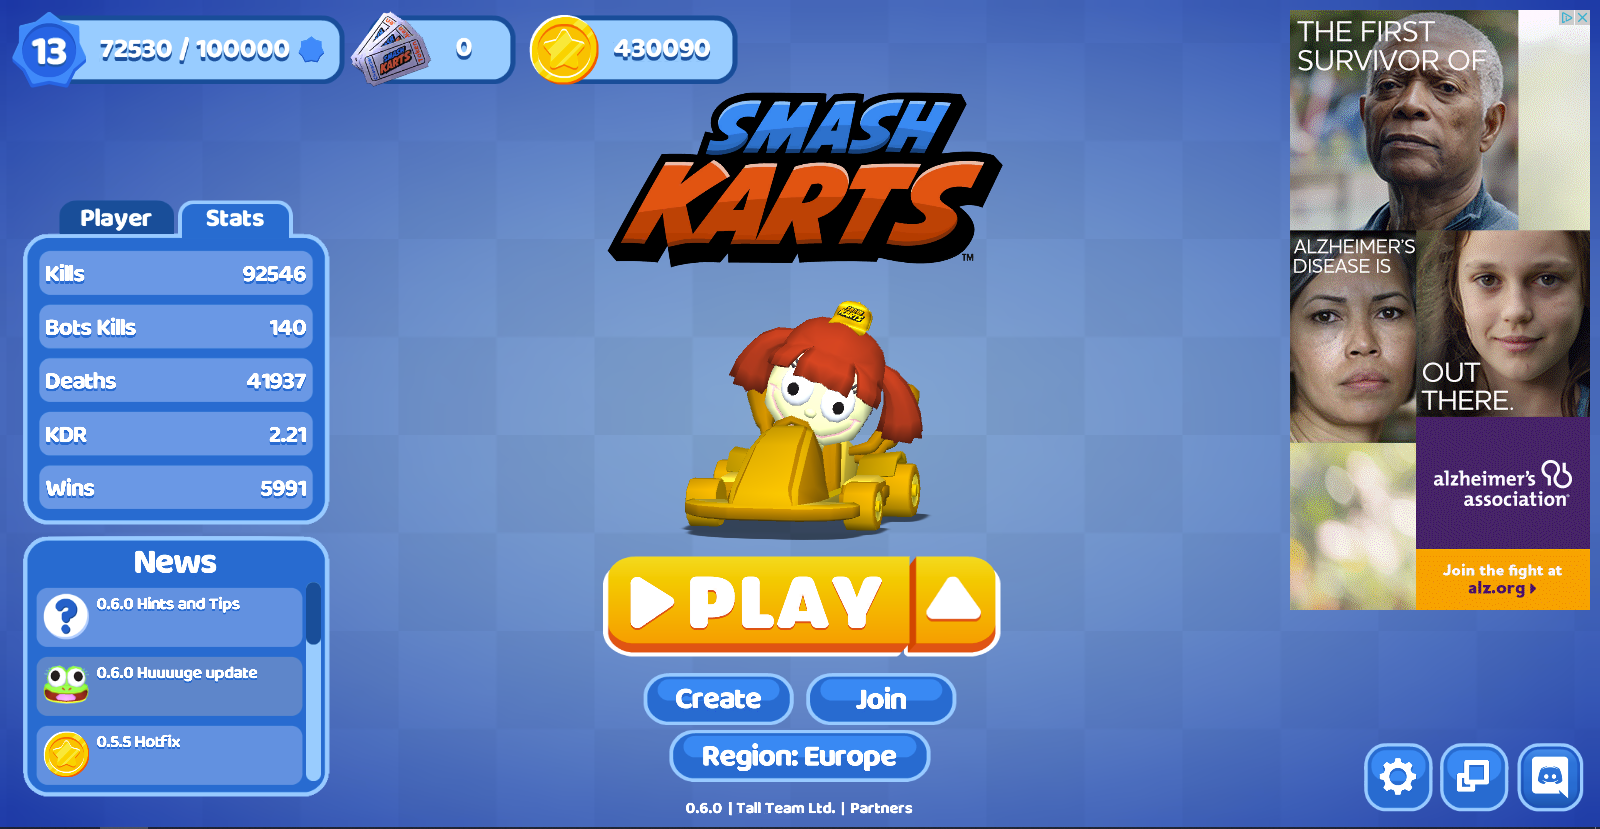
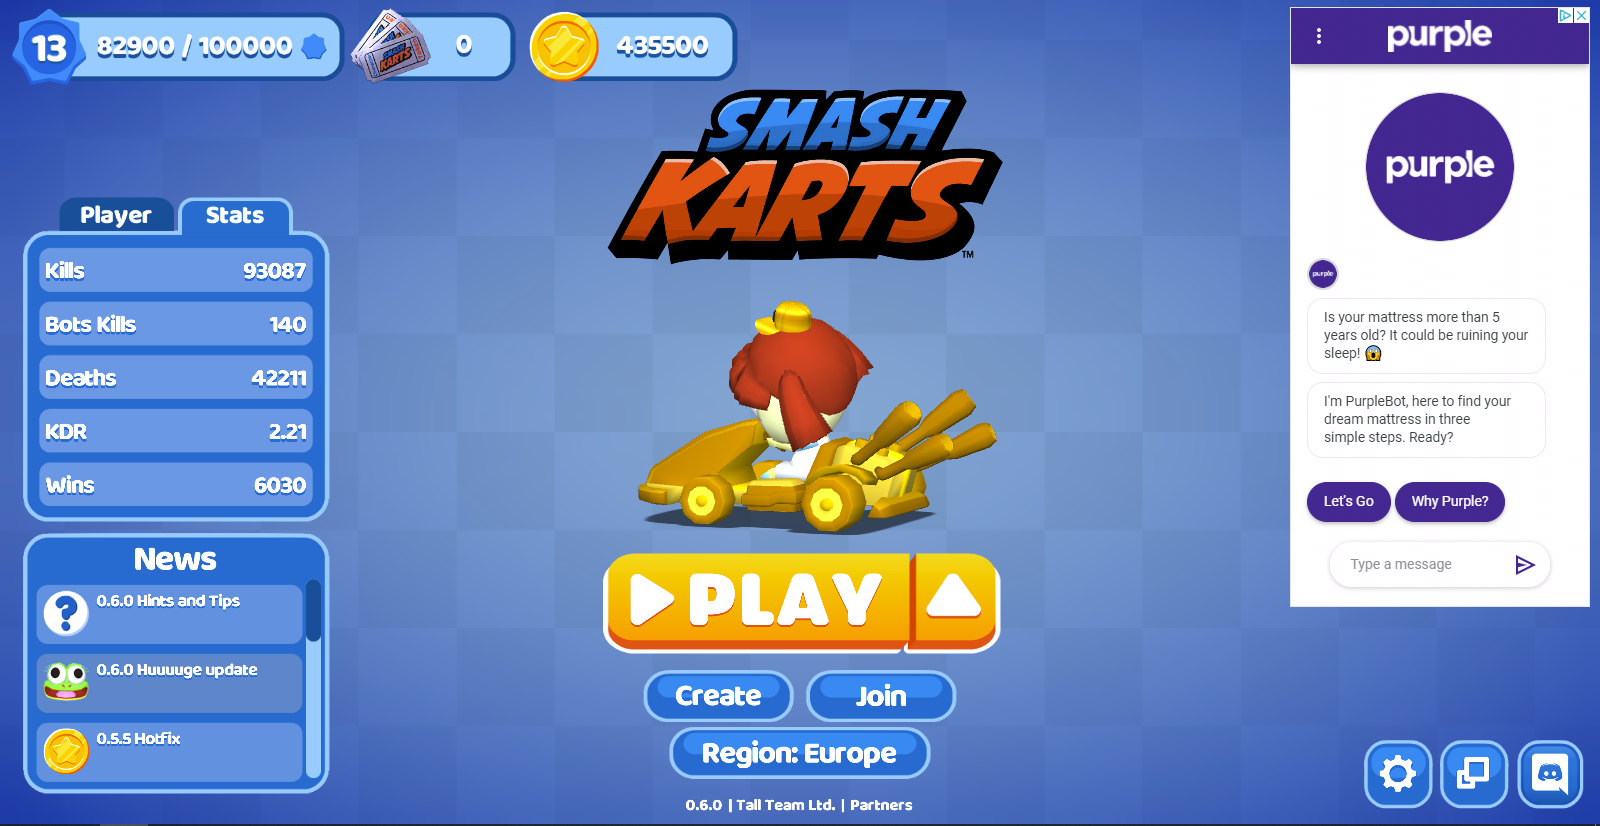
Added cbc, Corpse, David, miguelpro, OscarTsai, ruthvik, xzjkdjkn, Zekkersito. Updated alpha zero, AytruxThs, DIOSITOXDYT, Drew, haedcase, JackCrew22, MaxioCool, SumiBee

diff --git a/playerList.js b/playerList.js
@@ -62,6 +62,15 @@ let player = [
      '2.25',
      14,
      '5/20/2021'],
+    ['alpha zero.png',
+     'alpha zero',
+     307,
+     4454,
+     113,
+     2659,
+     '1.68',
+     11,
+     '5/22/2021'],
     ['ANCIENT.png',
      'ANCIENT',
      530,
@@ -99,14 +108,14 @@ let player = [
      11,
      '5/18/2021'],
     ['AytruxThs.jpg',
-     'AytruxThs' + newPlayer,
-     5,
-     124,
-     0,
-     100,
-     '1.24',
+     'AytruxThs',
+     11,
+     195,
+     2,
+     158,
+     '1.23',
      6,
-     '5/21/2021'],
+     '5/22/2021'],
     ['BAMerica.png',
      'BAM\'erica',
      278,
@@ -161,6 +170,15 @@ let player = [
      '1.15',
      '',
      '5/21/2021'],
+    ['cbc.png',
+     'cbc' + newPlayer,
+     208,
+     3028,
+     195,
+     1735,
+     '1.75',
+     4,
+     '5/22/2021'],
     ['Cepo.png',
      'Cepo',
      53,
@@ -206,6 +224,24 @@ let player = [
      '1.83',
      8,
      '5/18/2021'],
+    ['Corpse.png',
+     'Corpse' + newPlayer,
+     162,
+     2715,
+     134,
+     2337,
+     '1.16',
+     12,
+     '5/22/2021'],
+    ['David.png',
+     'David' + newPlayer,
+     894,
+     12306,
+     241,
+     5436,
+     '2.26',
+     10,
+     '5/22/2021'],
     ['DevilGamer.png',
      'DevilGamer',
      119,
@@ -215,24 +251,24 @@ let player = [
      '1.35',
      11,
      '5/20/2021'],
-    ['DIOSITO.png',
-     'DIOSITO',
-     38,
-     2147,
+    ['DIOSITOXDYT.png',
+     'DIOSITOXDYT',
+     42,
+     2223,
      35,
-     3390,
-     '0.63',
-     '',
-     '5/17/2021'],
+     3443,
+     '0.65',
+     6,
+     '5/22/2021'],
     ['Drew.png',
      'Drew',
-     732,
-     12549,
+     737,
+     12629,
      455,
-     7968,
+     8036,
      '1.57',
      10,
-     '5/21/2021'],
+     '5/22/2021'],
     ['Eli.png',
      'Eli',
      83,
@@ -252,7 +288,7 @@ let player = [
      7,
      '5/21/2021'],
     ['FastNFurious.png',
-     'FastNFurious' + newPlayer,
+     'FastNFurious',
      55,
      983,
      60,
@@ -306,7 +342,7 @@ let player = [
      7,
      '5/21/2021'],
     ['GGE.png',
-     'GGE' + newPlayer,
+     'GGE',
      189,
      2333,
      297,
@@ -351,7 +387,7 @@ let player = [
      '',
      ''],
     ['Gu1ziu.png',
-     'Gu1ziu' + newPlayer,
+     'Gu1ziu',
      55,
      678,
      0,
@@ -361,13 +397,13 @@ let player = [
      '5/21/2021'],
     ['haedcase.png',
      'haedcase',
-     5991,
-     92546,
+     6030,
+     93087,
      140,
-     41937,
+     42211,
      '2.21',
      13,
-     '5/20/2021'],
+     '5/22/2021'],
     ['Hello.png',
      'Hello',
      48,
@@ -388,13 +424,13 @@ let player = [
      ''],
     ['JackCrew22.jpg',
      'JackCrew22',
+     12,
+     121,
      7,
-     68,
-     2,
-     43,
-     '1.58',
-     5,
-     '5/18/2021'],
+     75,
+     '1.61',
+     6,
+     '5/22/2021'],
     ['Jash.png',
      'Jash',
      1582,
@@ -540,7 +576,7 @@ let player = [
      '',
      ''],
     ['mangoboi.png',
-     'mangoboi' + newPlayer,
+     'mangoboi',
      17,
      268,
      238,
@@ -566,15 +602,6 @@ let player = [
      '1.19',
      13,
      '5/17/2021'],
-    ['Maxio_cool.png',
-     'Maxio_cool',
-     22,
-     690,
-     79,
-     810,
-     '0.85',
-     9,
-     '5/18/2021'],
     ['Memes.png',
      'Memes',
      30,
@@ -611,6 +638,15 @@ let player = [
      '1.06',
      '',
      ''],
+    ['miguelpro.png',
+     'miguelpro' + newPlayer,
+     0,
+     88,
+     0,
+     66,
+     '1.33',
+     1,
+     '5/22/2021'],
     ['MrSam.png',
      'MrSam',
      1352,
@@ -701,6 +737,15 @@ let player = [
      '1.02',
      '',
      '5/14/2021'],
+    ['OscarTsai.png',
+     'OscarTsai' + newPlayer,
+     477,
+     9452,
+     586,
+     4587,
+     '2.06',
+     7,
+     '5/22/2021'],
     ['Outrun.png',
      'Outrun',
      1728,
@@ -765,7 +810,7 @@ let player = [
      3,
      '5/18/2021'],
     ['PrimOverLorde.png',
-     'PrimOverLorde' + newPlayer,
+     'PrimOverLorde',
      8,
      315,
      403,
@@ -792,7 +837,7 @@ let player = [
      13,
      '5/16/2021'],
     ['Pro Smasher.png',
-     'Pro Smasher' + newPlayer,
+     'Pro Smasher',
      450,
      6313,
      275,
@@ -854,6 +899,15 @@ let player = [
      '1.89',
      15,
      '5/18/2021'],
+    ['ruthvik.png',
+     'ruthvik' + newPlayer,
+     41,
+     656,
+     63,
+     503,
+     '1.30',
+     8,
+     '5/22/2021'],
     ['ruzgar.png',
      'ruzgar',
      157,
@@ -900,7 +954,7 @@ let player = [
      '',
      ''],
     ['SirBotsalot.png',
-     'SirBotsalot' + newPlayer,
+     'SirBotsalot',
      445,
      5569,
      147,
@@ -1000,13 +1054,13 @@ let player = [
      ''],
     ['SumiBee.png',
      'SumiBee',
-     209,
-     2595,
-     197,
-     1354,
+     237,
+     2930,
+     205,
+     1524,
      '1.92',
      '',
-     '5/19/2021'],
+     '5/22/2021'],
     ['Supremo.png',
      'Supremo',
      451,
@@ -1043,15 +1097,6 @@ let player = [
      '1.14',
      '',
      ''],
-    ['Vihaan23.png',
-     'Vihaan23',
-     288,
-     4169,
-     103,
-     2541,
-     '1.64',
-     10,
-     '5/18/2021'],
     ['Waris Ja.png',
      'Waris Ja',
      4690,
@@ -1079,6 +1124,15 @@ let player = [
      '1.50',
      '',
      '5/17/2021'],
+    ['xzjkdjkn.png',
+     'xzjkdjkn' + newPlayer,
+     1172,
+     14403,
+     535,
+     6478,
+     '2.22',
+     10,
+     '5/22/2021'],
      ['YOURSELF.png',
      'YOURSELF',
      231,
@@ -1097,6 +1151,24 @@ let player = [
      '2.01',
      8,
      '5/14/2021'],
+    ['MaxioCool.png',
+     'ZedZoff/MaxioCool',
+     27,
+     900,
+     162,
+     1054,
+     '0.85',
+     '',
+     '5/22/2021'],
+    ['Zekkersito.png',
+     'Zekkersito&trade;',
+     11,
+     326,
+     5,
+     376,
+     '0.87',
+     8,
+     '5/22/2021'],
     ['Zoli.png',
      'Zoli',
      33,

diff --git a/index.html b/index.html
@@ -25,7 +25,7 @@
             <script>fillGrid()</script>
         </div>
 
-        <div id="update">Last updated: 5/21/2021</div>
+        <div id="update">Last updated: 5/22/2021</div>
 
         <p>To be included in the leaderboard, or to update your stats, please post in the #submissions channel of the official Tall Team
             Discord, and include the following:
